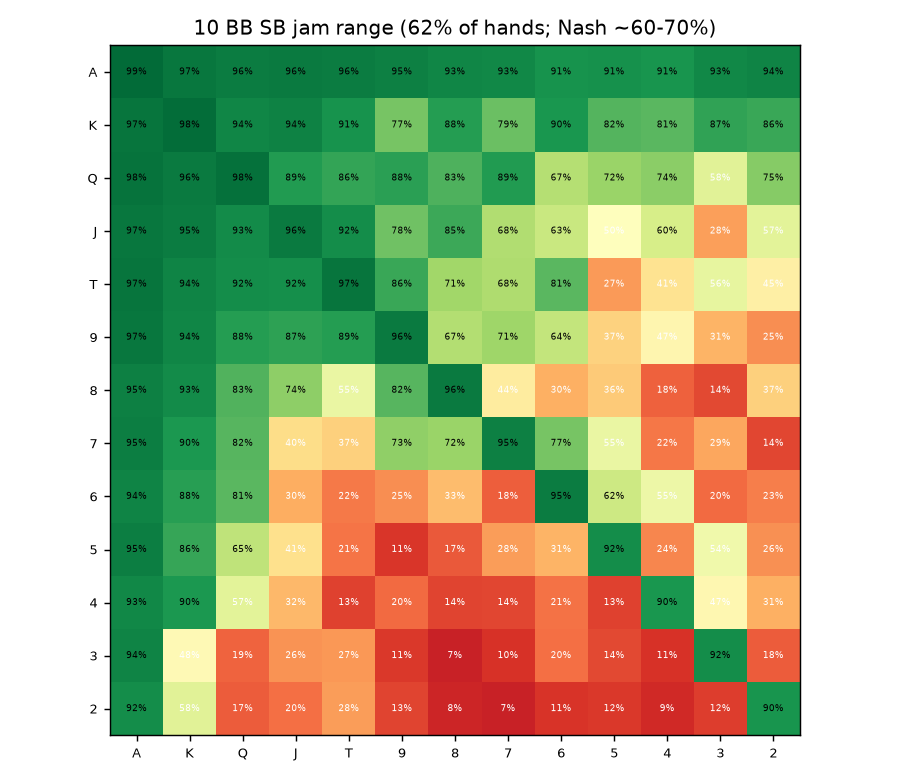
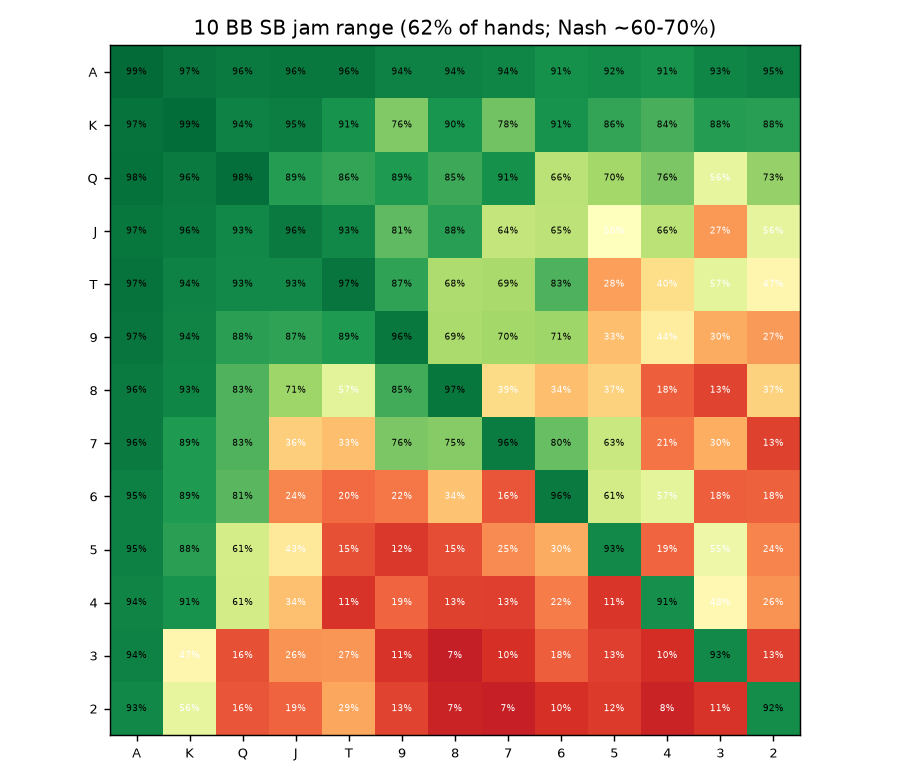
daily: DCFR (alpha=1.5, gamma=2) in the NLHE MCCFR trainer — exploitability 3.29→1.51 bb/100
Backlog item 5: sweep DCFR discount exponents and adopt the best for the NLHE
trainer.  FastNLHECFR was plain CFR+ (regrets floored at 0, linear strategy
averaging); it now applies DCFR's positive-regret (alpha) and strategy-sum
(gamma) discounts.

Both discounts are folded into per-iteration weights on the increments, which is
algebraically identical to DCFR's per-iteration sweep over every information set
but costs O(1) instead of O(infosets) — essential here, where one sampled
iteration touches a handful of thousands of nodes.  alpha=None/gamma=1
reproduces the previous trainer bit-for-bit (verified against HEAD).

Parameters chosen on Leduc with exact exploitability (two sweeps: full DCFR
(alpha,beta,gamma), and the floor scheme the sampled trainer actually uses),
then screened at quick level, which isolated gamma as the whole effect.

Measured at level=standard, seed 0: exploitability 3.289 -> 1.513 bb/100;
replicated at seed 1 (3.602 -> 1.698).  Win rates vs the baseline panel move
within their 95% CIs and flip sign between the two seeds, so they are noise.
Kuhn/Leduc untouched, BR exploitability stays positive, jam range still in the
60-70% Nash band, 43 tests green.  See EXPERIMENTS.md.

Claude-Session: https://claude.ai/code/session_01MN5P9CkLmXvE9ZbvvRgizd

diff --git a/pokerbot/solve/nlhe_tree.py b/pokerbot/solve/nlhe_tree.py
@@ -83,26 +83,67 @@ class CompiledBettingTree:
 
 
 class FastNLHECFR:
-    """Chance-sampling CFR+ over the compiled betting tree."""
+    """Chance-sampling CFR+ / Discounted-CFR over the compiled betting tree.
 
-    def __init__(self, game: NLHEGame, tree: Optional[CompiledBettingTree] = None):
+    ``alpha`` and ``gamma`` are the Discounted-CFR (Brown & Sandholm 2019)
+    discount exponents for the *positive regrets* and the *average-strategy
+    sum*.  DCFR normally applies them as a global sweep over every information
+    set once per iteration — far too expensive here, where the table has
+    thousands of sampled nodes and each iteration touches only a handful.  They
+    are therefore applied **lazily and exactly**, as per-iteration weights on the
+    increments:
+
+    * discounting the accumulated regret by ``f_s = s^α/(s^α+1)`` after every
+      iteration ``s`` is equivalent to leaving it undiscounted and weighting
+      iteration ``t``'s increment by ``w_t = Π_{s≤t} (1 + s^-α) = 1/Π_{s≤t} f_s``
+      — the two accumulators differ only by the positive global factor
+      ``Π f_s``, which cancels in regret matching (and commutes with the
+      regret-matching-plus floor, since it is a positive scalar);
+    * discounting the strategy sum by ``(s/(s+1))^γ`` telescopes to a weight of
+      ``t^γ`` on iteration ``t``'s increment.
+
+    ``beta`` (the negative-regret discount) has no lazy analogue and is not
+    needed: regrets here are floored at 0 on every visit (regret-matching-plus),
+    which is the ``β → -inf`` limit — and under sampling, where a node is visited
+    on a small fraction of iterations, DCFR's ``β = 0`` (halve per iteration)
+    decays a negative regret to ~0 between visits anyway.
+
+    The defaults are DCFR's ``(α, γ) = (1.5, 2)``; ``alpha=None`` (no
+    positive-regret discount) with ``gamma=1.0`` (linear averaging) reproduces
+    the plain CFR+ updates exactly.  ``alpha`` below 1 is rejected: ``w_t`` then
+    grows like ``exp(t^(1-α))`` and overflows.
+    """
+
+    def __init__(self, game: NLHEGame, tree: Optional[CompiledBettingTree] = None,
+                 alpha: Optional[float] = 1.5, gamma: float = 2.0):
+        if alpha is not None and alpha < 1.0:
+            raise ValueError("alpha must be >= 1 (or None); smaller exponents "
+                             "make the lazy regret weight overflow")
         self.game = game
         self.tree = tree or CompiledBettingTree.build(game)
         self.nodes: Dict[Tuple[int, object], _Node] = {}
         self.iterations = 0
+        self.alpha = alpha
+        self.gamma = gamma
+        self._regret_weight = 1.0
 
     def run(self, iterations: int, rng: Optional[random.Random] = None) -> None:
         rng = rng or random.Random()
         ab = self.game.abstraction
         deal = self.game.deal
         root = self.tree.root
+        alpha, gamma = self.alpha, self.gamma
         for _ in range(iterations):
             self.iterations += 1
+            t = float(self.iterations)
+            if alpha is not None:
+                self._regret_weight *= 1.0 + t ** -alpha
             hole, board = deal(rng)
-            self._cfr(root, 1.0, 1.0, float(self.iterations), hole, board,
-                      ab, {}, [None])
+            self._cfr(root, 1.0, 1.0, t if gamma == 1.0 else t ** gamma,
+                      hole, board, ab, {}, [None], self._regret_weight)
 
-    def _cfr(self, nid, r0, r1, t, hole, board, ab, bucket_cache, sign):
+    def _cfr(self, nid, r0, r1, ws, hole, board, ab, bucket_cache, sign, wr):
+        """``ws``/``wr`` are this iteration's strategy-sum and regret weights."""
         tree = self.tree
         kind = tree.kind[nid]
         if kind == FOLD_T:
@@ -138,11 +179,11 @@ class FastNLHECFR:
         for i in range(n):
             si = strat[i]
             if player == 0:
-                c0, c1 = self._cfr(children[i], r0 * si, r1, t, hole, board,
-                                   ab, bucket_cache, sign)
+                c0, c1 = self._cfr(children[i], r0 * si, r1, ws, hole, board,
+                                   ab, bucket_cache, sign, wr)
             else:
-                c0, c1 = self._cfr(children[i], r0, r1 * si, t, hole, board,
-                                   ab, bucket_cache, sign)
+                c0, c1 = self._cfr(children[i], r0, r1 * si, ws, hole, board,
+                                   ab, bucket_cache, sign, wr)
             util0[i] = c0
             util1[i] = c1
             nv0 += si * c0
@@ -151,17 +192,17 @@ class FastNLHECFR:
         rs = node.regret_sum
         ss = node.strategy_sum
         if player == 0:
-            cf = r1
+            cf = wr * r1
             for i in range(n):
                 v = rs[i] + cf * (util0[i] - nv0)
                 rs[i] = v if v > 0.0 else 0.0
-                ss[i] += t * r0 * strat[i]
+                ss[i] += ws * r0 * strat[i]
         else:
-            cf = r0
+            cf = wr * r0
             for i in range(n):
                 v = rs[i] + cf * (util1[i] - nv1)
                 rs[i] = v if v > 0.0 else 0.0
-                ss[i] += t * r1 * strat[i]
+                ss[i] += ws * r1 * strat[i]
         return nv0, nv1
 
     def average_strategy(self) -> TabularStrategy:

diff --git a/tests/test_mccfr.py b/tests/test_mccfr.py
@@ -59,6 +59,49 @@ def test_trained_bot_beats_random_and_callstation():
         assert res.bb_per_100 > 0, opp.name
 
 
+def test_lazy_regret_weight_matches_dcfr_discount():
+    """The lazy weight must be the exact inverse of DCFR's positive-regret
+    discount, i.e. w_T * prod_{t<=T} t^a/(t^a+1) == 1."""
+    g = _game()
+    for alpha in (1.0, 1.5, 3.0):
+        s = FastNLHECFR(g, alpha=alpha, gamma=2.0)
+        s.run(200, random.Random(0))
+        prod = 1.0
+        for t in range(1, s.iterations + 1):
+            ta = float(t) ** alpha
+            prod *= ta / (ta + 1.0)
+        assert abs(s._regret_weight * prod - 1.0) < 1e-9, alpha
+
+
+def test_undiscounted_trainer_is_plain_cfr_plus():
+    """alpha=None/gamma=1 must leave the CFR+ updates numerically untouched."""
+    g = _game()
+    s = FastNLHECFR(g, alpha=None, gamma=1.0)
+    s.run(500, random.Random(0))
+    assert s._regret_weight == 1.0
+    # Same seed, same trainer settings -> identical strategy (determinism).
+    s2 = FastNLHECFR(g, alpha=None, gamma=1.0)
+    s2.run(500, random.Random(0))
+    assert s.average_strategy().table == s2.average_strategy().table
+
+
+def test_alpha_below_one_is_rejected():
+    """w_t would grow like exp(t^(1-alpha)) and overflow."""
+    import pytest
+    with pytest.raises(ValueError):
+        FastNLHECFR(_game(), alpha=0.5)
+
+
+def test_discounted_trainer_beats_baselines():
+    g = _game()
+    s = FastNLHECFR(g, alpha=1.5, gamma=2.0)
+    s.run(20000, random.Random(1))
+    bot = StrategyAgent(s.average_strategy(), "bot")
+    for opp in (RandomAgent(), CallStationAgent()):
+        res = play_match(g, bot, opp, num_pairs=1500, seed=7)
+        assert res.bb_per_100 > 0, opp.name
+
+
 def test_exploiter_crushes_always_call():
     """A best response must strongly beat a trivially exploitable strategy."""
     from pokerbot.eval.arena import play_directional

diff --git a/EXPERIMENTS.md b/EXPERIMENTS.md
@@ -15,6 +15,146 @@ Metrics legend (all from `pokerbot.metrics.flatten`):
 
 ---
 
+## 2026-07-28 — Discounted CFR (α, γ) in the NLHE MCCFR trainer
+
+**Idea:** backlog item 5 — sweep DCFR's discount exponents and adopt the best
+for the NLHE trainer. `FastNLHECFR` was plain **CFR+**: regrets floored at 0,
+strategy sum accumulated with linear (`t`) weights. DCFR (Brown & Sandholm
+2019) instead discounts positive regrets by `s^α/(s^α+1)` and the strategy sum
+by `(s/(s+1))^γ` each iteration.
+
+**How it's applied (lazily, and exactly).** DCFR discounts by sweeping *every*
+information set once per iteration; here the table has thousands of sampled
+nodes and one iteration touches a handful, so a sweep is unaffordable. Both
+discounts are instead folded into **per-iteration weights on the increments**,
+which is algebraically identical:
+
+- discounting accumulated regret by `f_s = s^α/(s^α+1)` after every iteration
+  leaves `R_T = (Π_{s≤T} f_s) · Σ_t inc_t · w_t` with `w_t = Π_{s≤t}(1+s^-α)`;
+  the two accumulators differ only by a positive global factor, which cancels in
+  regret matching and commutes with the regret-matching-plus floor. `w_t` is
+  maintained as one running scalar (`_regret_weight`), so the cost is one
+  multiply per iteration.
+- the strategy-sum discount `(s/(s+1))^γ` telescopes to a weight of `t^γ` on
+  iteration `t` — the existing code was already this with γ=1.
+
+DCFR's `β` (negative-regret discount) has no lazy analogue and isn't needed: the
+plus-floor is the `β → -inf` limit, and under sampling `β=0` decays a negative
+regret to ~0 between a node's visits anyway. `alpha < 1` is rejected (`w_t`
+would grow like `exp(t^(1-α))` and overflow). `alpha=None, gamma=1.0` reproduces
+the previous CFR+ trainer **bit-for-bit** (verified against `HEAD`: 5,772 keys,
+max abs diff 0.0).
+
+**Selection (before touching the NLHE numbers).** Two Leduc sweeps at 20k
+iterations with *exact* exploitability:
+
+1. Full DCFR `(α, β, γ)`, 25 configs. Best: `(3, 0.5, 3)` 0.003950, `(1.5, 0.5,
+   3)` 0.004013 — every top config uses **β=0.5**, which the sampled floor
+   cannot express (noted as backlog below). Repo default `(1.5, 0, 2)` 0.006309;
+   CFR+ 0.006763.
+2. The **floor scheme actually used by the trainer** (plus-floor + α + γ), 15
+   configs — this one transfers as-is. γ dominates and α=1 is harmful:
+
+   | α \ γ | 1 | 2 | 3 |
+   |---|---|---|---|
+   | None | 0.006763 | 0.006184 | 0.005913 |
+   | 1.0 | 0.010817 | 0.009976 | 0.009546 |
+   | **1.5** | 0.006679 | 0.006118 | **0.005859** |
+   | 2.0 | 0.006798 | 0.006295 | 0.006037 |
+   | 3.0 | 0.006748 | 0.006200 | 0.005927 |
+
+   (`α=None, γ=1` reproduces `TreeCFR`'s `cfr+` exactly — a check on the harness.)
+
+Then a quick-level NLHE screen (same seeds/budgets, only the trainer differs)
+decomposed the two knobs — γ is the whole effect:
+
+| trainer | expl. bb/100 | random | call-station | maniac | TAG |
+|---|---|---|---|---|---|
+| CFR+ (None, 1) | 2.895 | +83.9 | +83.2 | +78.6 | +5.4 |
+| α only (1.5, 1) | 3.241 | +82.0 | +106.1 | +97.9 | −15.1 |
+| γ only (None, 2) | 0.098 | +91.0 | +129.6 | +71.3 | −31.0 |
+| DCFR (1.5, 2) | 0.431 | +67.0 | +124.1 | +89.8 | −14.4 |
+
+Adopted the canonical DCFR pair **(α, γ) = (1.5, 2)** as the `FastNLHECFR`
+default (best of the two γ=2 screens on the panel, top-5 on the Leduc floor
+sweep). `metrics.py`/`evaluate.py` needed no change — they construct
+`FastNLHECFR` with defaults.
+
+**Before → after** (`level=standard`, seed 0 — the committed row):
+
+| Metric | Baseline (CFR+) | Candidate (DCFR) | Δ |
+|---|---|---|---|
+| `nlhe_exploitability_bb100` | 3.289 | **1.513** | **−1.776** |
+| `win_vs_random` | +63.71 ±16.47 | +52.01 ±16.48 | −11.70 (within CI) |
+| `win_vs_call_station` | +111.05 ±17.58 | +111.98 ±17.63 | +0.93 |
+| `win_vs_maniac` | +65.28 ±18.80 | +56.80 ±18.73 | −8.48 (within CI) |
+| `win_vs_tight_aggressive` | +8.37 ±13.90 | −0.57 ±13.92 | −8.94 (within CI) |
+| `nlhe_infosets` | 5,772 | 5,772 | 0 (abstraction untouched) |
+| `pushfold_jam_pct` | 62.1 | 61.5 | −0.6 (still in the 60–70% Nash band) |
+| `kuhn_exploitability` / `leduc_exploitability` | 0.002265 / 0.0046 | 0.002265 / 0.0046 | unchanged (untouched code paths) |
+
+**Replication (the reason this is a keep, not a shrug).** −1.78 bb/100 sits at
+the edge of the routine's stated 1–2 bb/100 noise band, so both arms were re-run
+at an independent seed (`seed=1`, standard, same budgets):
+
+| Metric | Δ at seed 0 | Δ at seed 1 |
+|---|---|---|
+| `nlhe_exploitability_bb100` | −1.776 (3.289→1.513) | **−1.904** (3.602→1.698) |
+| `win_vs_random` | −11.70 | **+15.02** |
+| `win_vs_call_station` | +0.93 | −2.75 |
+| `win_vs_maniac` | −8.48 | +3.31 |
+| `win_vs_tight_aggressive` | −8.94 | **+11.22** |
+
+The exploitability gain reproduces almost exactly (−1.78, −1.90) while every
+win-rate delta **flips sign** between seeds (mean over the two seeds: random
++1.7, call-station −0.9, maniac −2.6, TAG +1.1). So the win-rate movements are
+seed noise, and the primary-metric drop is not. The same direction shows up at
+the quick level (−2.46) and in the *exact*, noise-free Leduc computation — three
+independent measurements, one deterministic.
+
+**Gate check:**
+- `python -m pytest -q` green: **43 passed** (4 new in `tests/test_mccfr.py`:
+  the lazy weight equals the closed-form DCFR discount to 1e-9 for α∈{1,1.5,3},
+  `alpha=None/gamma=1` leaves the accumulators untouched and is deterministic,
+  `alpha<1` raises, and a DCFR-trained bot still beats random/call-station).
+- Invariants: Kuhn value −0.05557 and exploitability 0.002265 unchanged; Leduc
+  0.0046 unchanged; bot still beats random/call-station/maniac significantly;
+  best-response exploitability ends **positive** at both seeds (1.513, 1.698);
+  jam range 61.5% still inside Nash's 60–70%; search-off reproduction
+  (invariant 6) still pinned by `tests/test_subgame.py`.
+- Primary metric: exploitability 3.289 → 1.513 bb/100, replicated at a second
+  seed (3.602 → 1.698). Beyond noise.
+- No regression: no `win_vs_*` category drops by more than its 95% CI at either
+  seed, and the deltas average to ≈0 across the two.
+
+**Caveats / backlog:**
+- The best Leduc configs all used **β=0.5**, i.e. *keeping* discounted negative
+  regret rather than flooring it. Expressing β under sampling needs per-node
+  last-visit bookkeeping (a sign-dependent discount can't be folded into a
+  scalar increment weight) — that's the natural follow-up, and Leduc says it is
+  worth ~30% more exploitability reduction there.
+- The exploiter is fixed-budget (150k/seat) and in-abstraction, so "less
+  exploitable" means "less exploitable by an equally-budgeted bucketed BR". A
+  strategy that is merely *harder to search against* would look the same; the
+  Leduc exact result is the guard against that reading.
+- `EVALUATION.md`'s section 4b trains its BR on a *smaller* budget than
+  `metrics.py` (120k iters/40k eval vs 150k/50k), where the BR is still
+  under-converged and the number is negative for both bots: it moved −0.84 →
+  −2.51 bb/100. That is the same effect seen at every early milestone of the BR
+  curve (the under-trained exploiter loses more to the DCFR bot), not a second,
+  contradictory measurement — the converged, positive numbers are the ones the
+  invariant is judged on (1.513 at seed 0, 1.698 at seed 1). Raising the
+  report's 4b budget to where the BR converges is a cheap follow-up.
+- γ=3 edged out γ=2 on Leduc, but higher γ concentrates the average strategy on
+  the last few percent of MCCFR deals, which should raise variance in the
+  sampled setting. Untested here — one idea per run.
+
+**Verdict: IMPROVEMENT.** Kept: `FastNLHECFR` now defaults to DCFR
+`(α, γ) = (1.5, 2)`. Regenerated `EVALUATION.md` and `figures/` at
+`level=standard`.
+
+---
+
 ## 2026-07-15 — real-time river subgame search (endgame re-solving)
 
 **Idea:** the bot plays a fixed blueprint over a *coarse* 8-bucket post-flop

diff --git a/EVALUATION.md b/EVALUATION.md
@@ -18,7 +18,7 @@ All 2,598,960 five-card hands enumerated; per-category counts vs textbook:
 | Four of a Kind | 624 | 624 | ✅ |
 | Straight Flush | 40 | 40 | ✅ |
 
-Distinct hand values: **7462** (expected 7462). All categories correct: **True**. [1.7s]
+Distinct hand values: **7462** (expected 7462). All categories correct: **True**. [2.1s]
 
 ## 2. Kuhn poker — provably near-Nash
 
@@ -48,21 +48,21 @@ Exploitability decreases monotonically toward 0, confirming the solver converges
 
 ## 4. No-Limit Hold'em bot
 
-**Setup**: heads-up, 20 BB effective, pot-sized bets + all-in, made-hand-strength card abstraction (169 pre-flop + 8 post-flop buckets/street). Trained with chance-sampling MCCFR for **120,000 deals** (5,772 info sets, 87s).
+**Setup**: heads-up, 20 BB effective, pot-sized bets + all-in, made-hand-strength card abstraction (169 pre-flop + 8 post-flop buckets/street). Trained with chance-sampling MCCFR for **120,000 deals** (5,772 info sets, 117s).
 
 ### 4a. Win rate vs baseline opponents
 (mirrored/duplicate deals for variance reduction; 95% CI)
 
 | Opponent | bb/100 | mbb/100 | 95% CI (bb/100) | Significant |
 |---|---|---|---|---|
-| random | +63.71 | +63715 | [+47.24, +80.19] | yes |
-| call-station | +111.05 | +111050 | [+93.47, +128.63] | yes |
-| maniac | +65.28 | +65275 | [+46.47, +84.08] | yes |
-| tight-aggressive | +8.37 | +8370 | [-5.53, +22.27] | no |
+| random | +52.01 | +52005 | [+35.53, +68.48] | yes |
+| call-station | +111.98 | +111985 | [+94.36, +129.61] | yes |
+| maniac | +56.80 | +56800 | [+38.07, +75.53] | yes |
+| tight-aggressive | -0.57 | -570 | [-14.49, +13.35] | no |
 
 ### 4b. In-abstraction exploitability
 
-A best response trained against the fixed bot (120,000 iterations/seat) wins **-0.84 bb/100 (-841 mbb/100)** averaged over both seats (seat 0 +3.70, seat 1 -5.38). This is a **lower bound** on the bot's in-abstraction exploitability — how far it sits from the abstract Nash equilibrium — and tightens (rises) as the best response is trained longer. For scale, the bot beats the baselines above by 50–100+ bb/100. [180s]
+A best response trained against the fixed bot (120,000 iterations/seat) wins **-2.51 bb/100 (-2515 mbb/100)** averaged over both seats (seat 0 +2.27, seat 1 -7.30). This is a **lower bound** on the bot's in-abstraction exploitability — how far it sits from the abstract Nash equilibrium — and tightens (rises) as the best response is trained longer. For scale, the bot beats the baselines above by 50–100+ bb/100. [233s]
 
 ### 4c. Short-stack push/fold vs Nash theory
 
@@ -71,17 +71,17 @@ SB jam frequency at 10 BB effective (Nash jams ~60-70% of hands):
 | Hand | Jam freq |
 |---|---|
 | AA | 0.99 |
-| TT | 0.97 |
-| 77 | 0.94 |
-| 22 | 0.89 |
+| TT | 0.98 |
+| 77 | 0.95 |
+| 22 | 0.92 |
 | AKo | 0.98 |
-| ATo | 0.96 |
-| A2s | 0.93 |
+| ATo | 0.97 |
+| A2s | 0.94 |
 | KJo | 0.95 |
-| T9s | 0.85 |
-| 98s | 0.62 |
-| 72o | 0.07 |
+| T9s | 0.86 |
+| 98s | 0.60 |
+| 72o | 0.06 |
 
 Hands jammed >50%: **102/169 = 60%** (Nash 10 BB SB jam range ≈ 60-70%). Strong hands jam ≈1.0, trash folds — qualitatively matching the known push/fold equilibrium.
 
-_Total evaluation time: 311s._
+_Total evaluation time: 404s._

diff --git a/README.md b/README.md
@@ -91,7 +91,12 @@ figure, and the report all change).
 
 - **Discounted CFR (DCFR)** is the default solver: positive/negative regrets and
   the average-strategy weights get separate polynomial discounts, which
-  outperforms vanilla CFR on Leduc-scale games.
+  outperforms vanilla CFR on Leduc-scale games. The NLHE Monte-Carlo trainer
+  uses the same `(α, γ) = (1.5, 2)` discounts, applied **lazily** as
+  per-iteration weights on the increments (algebraically identical to DCFR's
+  per-iteration sweep, but O(1) instead of O(information sets); see
+  `FastNLHECFR`). Its negative-regret rule stays regret-matching-plus, the
+  `β → -inf` limit.
 - The NLHE bot uses an **action abstraction** (pot-sized bet + all-in) and a
   **card abstraction** (lossless 169 pre-flop hands + made-hand-strength buckets
   post-flop). The post-flop abstraction ignores draw potential — a documented
